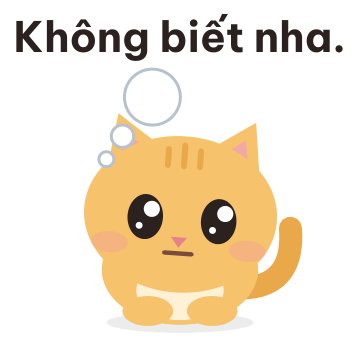
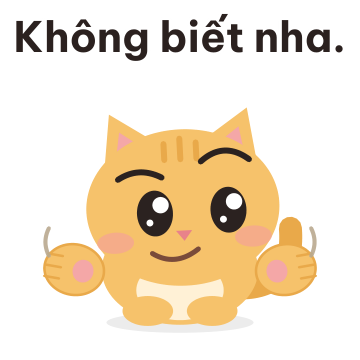
No idea: the shrug of the usual emoji (glancing eyes, uneven brows, a sheepish smile, paws open at the sides) replaces the thought bubble

diff --git a/docs/plans/assets/stickers/build_stickers.py b/docs/plans/assets/stickers/build_stickers.py
@@ -1068,11 +1068,12 @@ ART["Ý kiến hay."] = (meme_idea, dict(scale=2.3, dy=12))
 ART["Ờ mây zing, gút chóp!"] = (meme_amazing, dict(scale=2.3, dy=12))
 
 def no_idea():
-    """"No idea": a blank, dazed face (flat mouth) and an empty thought bubble of three growing circles above the head. No arms."""
-    grey, white = "#b8c2cc", "#ffffff"
-    circles = ((28, 44, 2.6), (35, 34, 4.2), (48, 17, 11.5))
-    bub = "".join(f'<circle cx="{x}" cy="{y}" r="{r + 1.3}" fill="{grey}"/>' for x, y, r in circles) + "".join(f'<circle cx="{x}" cy="{y}" r="{r}" fill="{white}"/>' for x, y, r in circles)
-    return cat(STAND_F, dict(LOOK["rest"], wide=0.2, mouth="flat", cheek=0.4, roll=4, dy=4, gx=1)) + bub
+    """"No idea", the shrug of the usual emoji: eyes glancing aside, the brows uneven (one raised), a sheepish closed smile and both paws open at the
+    sides of the body, pads up. No arms. (The first version, an empty thought bubble, looked too much like "Để mình nghĩ…".)"""
+    brows = stroke_path("M33 53 Q42 47 52 52", INK, 2.6) + stroke_path("M69 45 Q79 36 90 44", INK, 2.6)
+    smile = stroke_path("M48 85 Q58 91 68 83", MOUTH, 2.2)
+    return (cat(STAND_F, dict(LOOK["rest"], wide=0.3, gx=5, gy=0, mouth="none", cheek=0.6, roll=-3, dy=1)) + brows + smile
+            + paw(14, 92, 11, 13, -80, True) + paw(106, 92, 11, 13, 80, True) + arcs("M3 74 q-3 6 0 12", "M117 74 q3 6 0 12"))
 
 
 ART["Không biết nha."] = (no_idea, dict(scale=2.3, dy=14))

diff --git a/docs/plans/sticker-list.md b/docs/plans/sticker-list.md
@@ -30,7 +30,7 @@ Status: **approved by Vinh on 2026-11-12 (31 stickers, the English and Japanese 
 | 21 | Ơ! | now, redrawn | a real shock: eyes white with tiny pupils, the mouth wide open, the body leaning back, shock lines (so it differs from "Ủa?") |
 | 22 | Ủa? | new | |
 | 23 | Để mình nghĩ… | now | |
-| 24 | **Không biết nha.** | new | "No idea": a blank, dazed face with a flat mouth and an empty thought bubble of three growing circles above the head (Vinh's choice A of three, 2026-11-13) |
+| 24 | **Không biết nha.** | new | "No idea": the shrug of the usual "I have no idea" emoji: eyes glancing aside, uneven brows (one raised), a sheepish closed smile, both paws open at the sides of the body, pads up (Vinh sent the emoji; the first version, an empty thought bubble, looked too much like "Để mình nghĩ…" and was replaced the same day) |
 | 25 | **Còn lâu!** | new, redrawn | the "lêu lêu" face: both lower eyelids pulled down (red crescents under the eyes) and a short tongue stuck out (the first try had a long tongue and a wink and did not read as "lêu lêu") |
 | 26 | Gớm! | new | |
 | 27 | Xỉu ngang! | new | |
